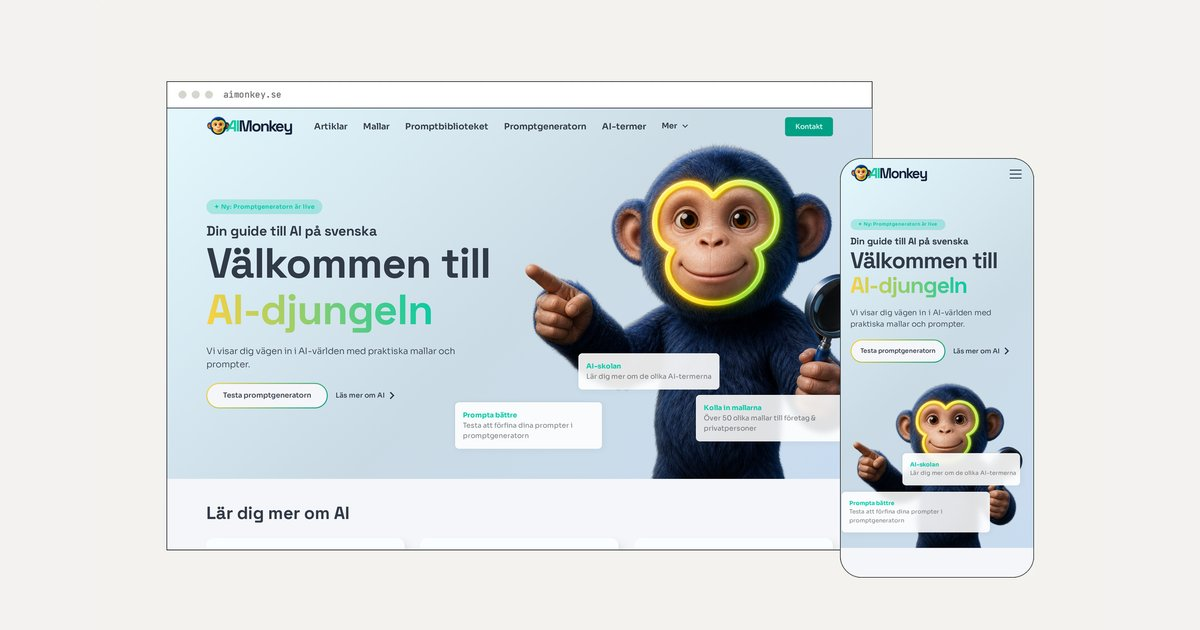
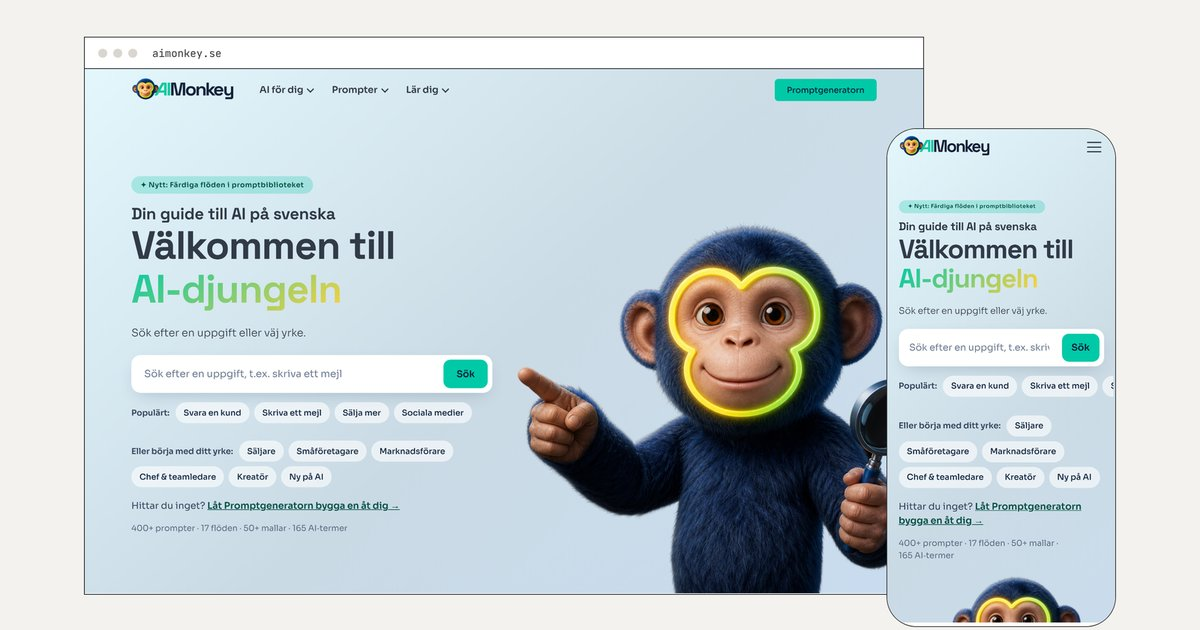
AImonkey: nya skärmbilder från live-sajten, uppdaterade siffror och generatorns nya flöde
Claude-Session: https://claude.ai/code/session_013KpN7tikbr37Hu5GtehP1S

diff --git a/src/cases/aimonkey.md b/src/cases/aimonkey.md
@@ -15,10 +15,10 @@ order: 1
 flagship: true
 chart: [aimonkey-search, aimonkey-ai]
 stats:
-  - { value: "56", label: "artiklar och nyheter" }
-  - { value: "40", label: "ai-mallar" }
-  - { value: "264", label: "prompter i biblioteket" }
-  - { value: "144", label: "förklarade ai-termer" }
+  - { value: "400+", label: "prompter i biblioteket" }
+  - { value: "50+", label: "ai-mallar" }
+  - { value: "17", label: "färdiga flöden" }
+  - { value: "165", label: "förklarade ai-termer" }
 ---
 
 ## Två luckor på svenska
@@ -40,7 +40,7 @@ AImonkey samlar allt på ett ställe, sorterat efter vem du är och vad du vill 
 - **Målgruppssidor** för nybörjare, marknadsföring, produktivitet, skapande och småföretag.
 - **Nyhetsbrev** med det senaste om AI.
 
-![Promptgeneratorn på AImonkey: välj att bygga en prompt från scratch eller utgå från en mall](/img/aimonkey-promptgenerator.webp)
+![Promptgeneratorn på AImonkey: skriv eller prata in vad du vill ha hjälp med, eller välj ett exempel, så bygger apan prompten i tre steg](/img/aimonkey-promptgenerator.webp)
 
 ## Promptgeneratorn – navet i sajten
 
@@ -51,7 +51,7 @@ Allt på AImonkey kretsar kring prompter. Tanken är enkel: de flesta får medio
 3. **Underlag** – namn, siffror och text som AI:n behöver i stället för att gissa.
 4. **Riktlinjer** – format, längd och regler för svaret.
 
-Användaren svarar på fyra korta steg, och generatorn sätter ihop en färdig prompt att kopiera direkt in i ChatGPT, Claude eller Gemini. Det tar under en minut, är gratis och kräver ingen inloggning.
+Användaren skriver, pratar in eller väljer ett exempel på vad hen vill ha hjälp med – som om hen förklarade för en kollega. Efter ett valfritt steg för finjustering sätter generatorn ihop en färdig prompt att kopiera direkt in i ChatGPT, Claude eller Gemini. Det tar under en minut, är gratis och kräver ingen inloggning.
 
 Generatorn står inte för sig själv. I artiklarna och i alla mallar ligger prompter i egna boxar, och med ett knapptryck öppnas prompten i generatorn för att anpassas. Läsaren går alltså från att läsa om ett problem till att ha en egen prompt som löser det – utan att lämna sajten.
 
